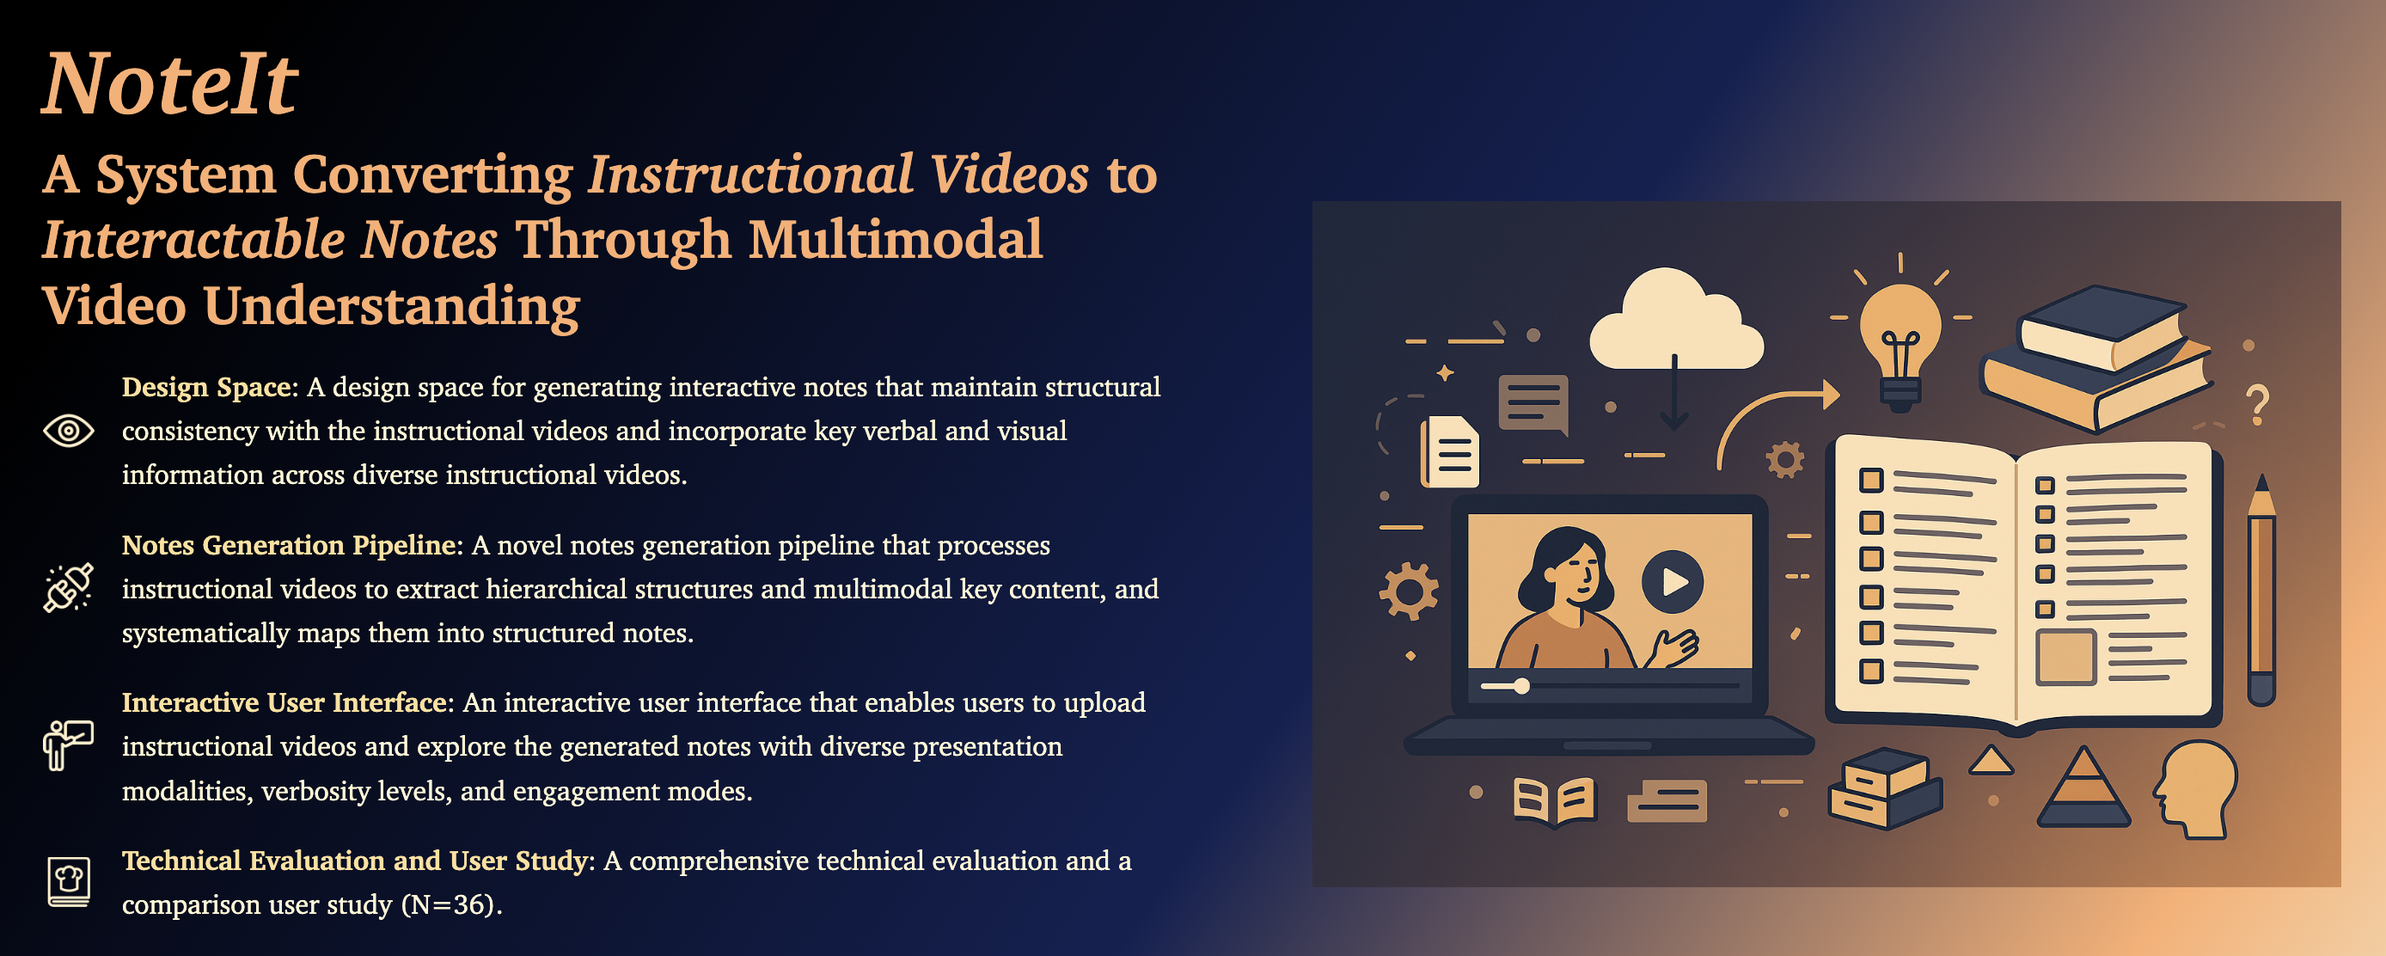
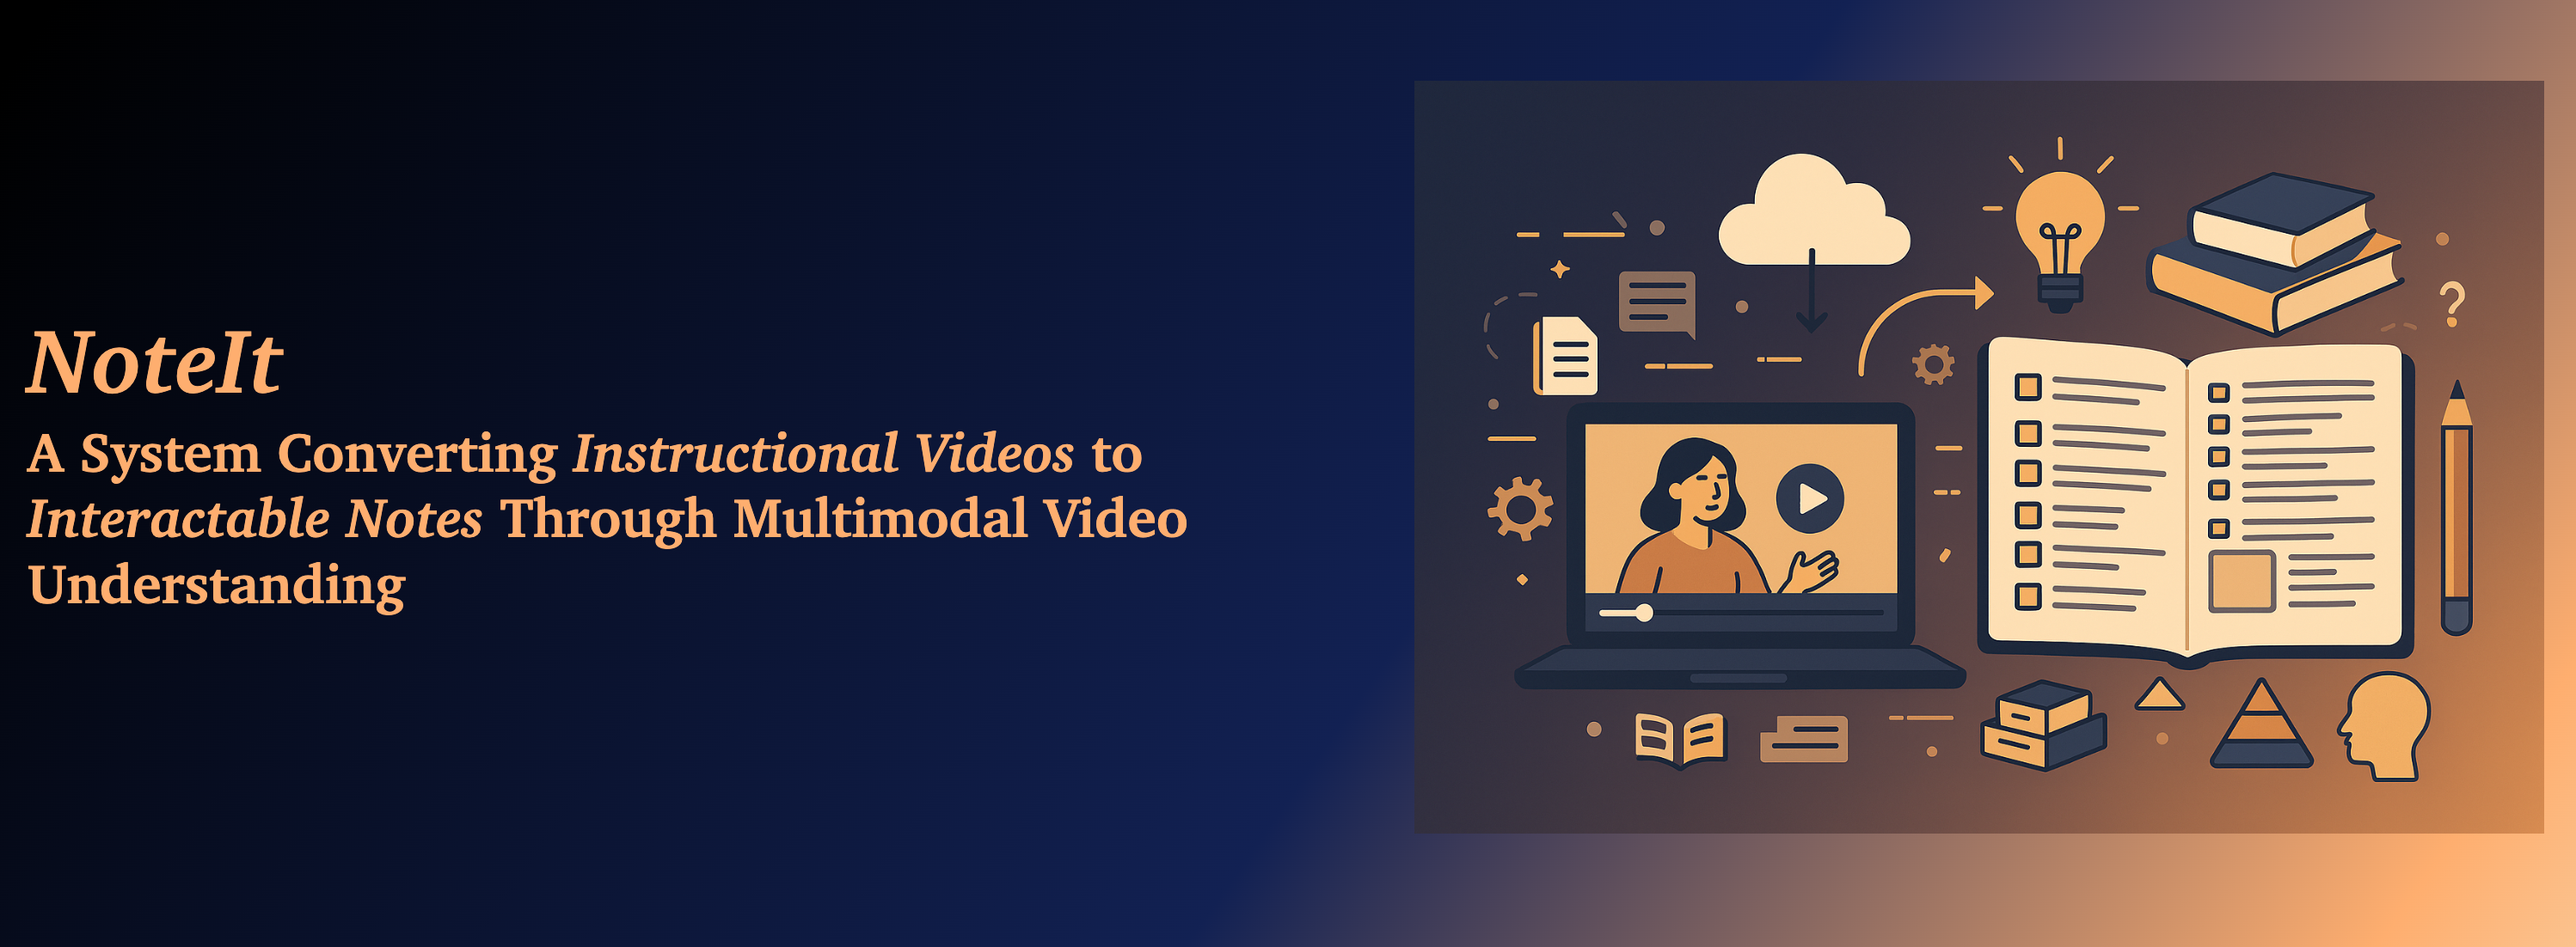
update

diff --git a/index.html b/index.html
@@ -54,32 +54,32 @@
                     <h1 style="margin-top: 0px"><i>NoteIt</i></h1>
                     <h2>A System Converting <i>Instructional Videos</i> to <i>Interactable Notes</i> Through Multimodal Video Understanding</h2>
 
-                        <div class="icon-container">
-                            <div class="icon-item">
-                                <img src="./static/img/icons/visual.svg" alt="Visual Representation Icon">
-                                <div><strong>Design Space</strong>: A design space for generating interactive notes that maintain
-                                    structural consistency with the instructional videos and incorporate key verbal and visual information 
-                                    across diverse instructional videos.</div>
-                            </div>
-                            <div class="icon-item">
-                                <img src="./static/img/icons/connector.svg" alt="Connector Design Icon">
-                                <div><strong>Notes Generation Pipeline</strong>: A novel notes generation pipeline that processes instructional videos to extract 
-                                    hierarchical structures and multimodal key content, and systematically maps them into structured notes.</div>
-                            </div>
-                            <div class="icon-item">
-                                <img src="./static/img/icons/data.svg" alt="Instruction Tuning Data Icon">
-                                <div><strong>Interactive User Interface</strong>: An interactive user interface that enables users to upload instructional videos and 
-                                    explore the generated notes with diverse presentation modalities, verbosity levels, and engagement modes.</div>
-                            </div>
-                            <div class="icon-item">
-                                <img src="./static/img/icons/recipe.svg" alt="Instruction Tuning Recipes Icon">
-                                <div><strong>Technical Evaluation and User Study</strong>:  A comprehensive technical evaluation and a comparison user study (N=36).</div>
-                            </div>
-                            <!-- <div class="icon-item">
-                                <img src="./static/img/icons/eval.svg" alt="Benchmarking Icon">
-                                <div><strong>Benchmarking</strong>: We examine existing MLLM benchmarks and introduce a new vision-centric benchmark, "CV-Bench".</div>
-                            </div> -->
+                    <div class="icon-container">
+                        <div class="icon-item">
+                            <img src="./static/img/icons/visual.svg" alt="Visual Representation Icon">
+                            <div><strong>Design Space</strong>: A design space for generating interactive notes that maintain
+                                structural consistency with the instructional videos and incorporate key verbal and visual information 
+                                across diverse instructional videos.</div>
                         </div>
+                        <div class="icon-item">
+                            <img src="./static/img/icons/connector.svg" alt="Connector Design Icon">
+                            <div><strong>Notes Generation Pipeline</strong>: A novel notes generation pipeline that processes instructional videos to extract 
+                                hierarchical structures and multimodal key content, and systematically maps them into structured notes.</div>
+                        </div>
+                        <div class="icon-item">
+                            <img src="./static/img/icons/data.svg" alt="Instruction Tuning Data Icon">
+                            <div><strong>Interactive User Interface</strong>: An interactive user interface that enables users to upload instructional videos and 
+                                explore the generated notes with diverse presentation modalities, verbosity levels, and engagement modes.</div>
+                        </div>
+                        <div class="icon-item">
+                            <img src="./static/img/icons/recipe.svg" alt="Instruction Tuning Recipes Icon">
+                            <div><strong>Technical Evaluation and User Study</strong>:  A comprehensive technical evaluation and a comparison user study (N=36).</div>
+                        </div>
+                        <!-- <div class="icon-item">
+                            <img src="./static/img/icons/eval.svg" alt="Benchmarking Icon">
+                            <div><strong>Benchmarking</strong>: We examine existing MLLM benchmarks and introduce a new vision-centric benchmark, "CV-Bench".</div>
+                        </div> -->
+                    </div>
 
                     <div class="button-container">
                         <!-- replace arxiv -->

diff --git a/README.md b/README.md
@@ -1,4 +1,4 @@
-# Cambrian-1 Webpage
+# NoteIt Webpage
 
 ### local development:
 run a local http server to preview the webpage
@@ -6,3 +6,6 @@ run a local http server to preview the webpage
 python -m http.server 8000
 ```
 then open the browser and go to `http://localhost:8000`
+
+### Acknowledgement:
+We sincerely thank NYU VisionX for the nice project page template.
